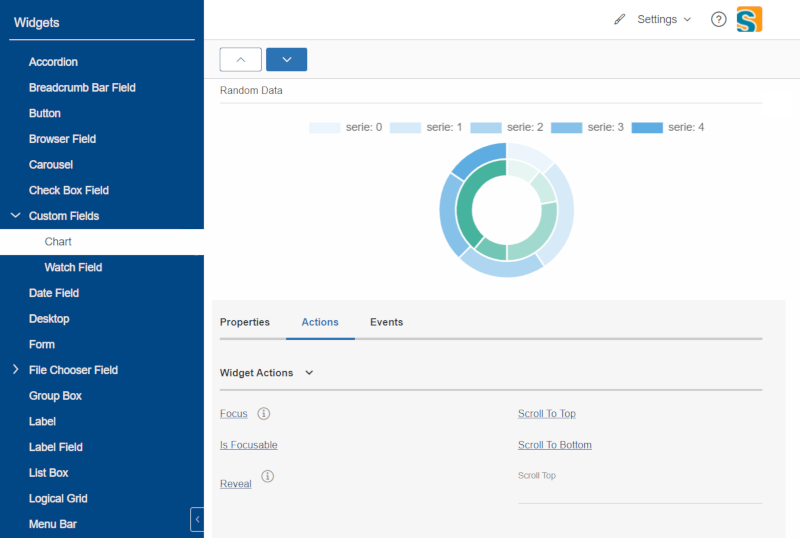
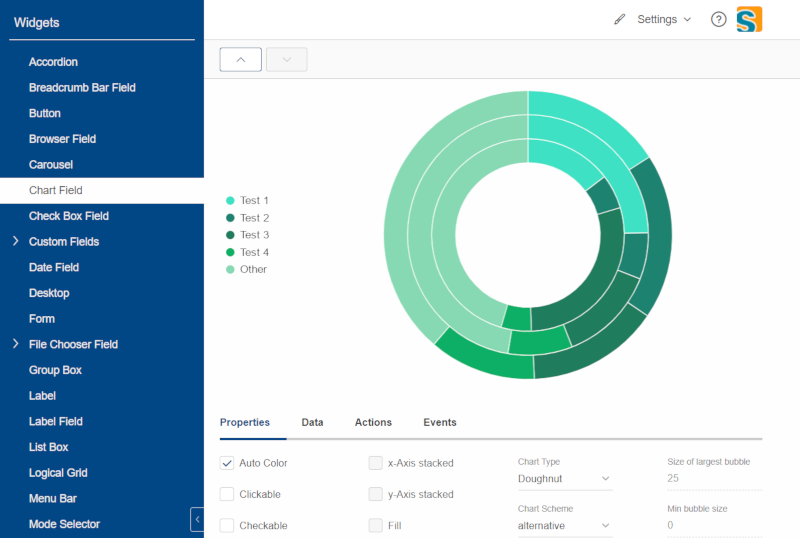
Updated Screenshots

diff --git a/README.md b/README.md
@@ -4,8 +4,24 @@
 * Start http://localhost:8080/
 
 
+## Screenshots für Scout Homepage Erstellen
+* Chrome verwenden
+* Outline-Tree mit D&D so einstellen, dass er genau 261px breit ist
+  (im DOM Inspector verifizieren)
+* Unnötige Nodes zuklappen
+* Chrome Window mit "Sizer" Tool auf 1280 x 960 resizen
+* Screenshot von Chrome Window machen (Alt + Print Screen)
+* In GIMP pasten. Ränder beschneiden. 1 Pixel Rahmen von Chrome
+  darf nicht Teil vom Bild sein.
+* Zielgrösse: 1278 x 859 Pixel
+* Scrollbars entfernen / übermalen
+* Outline-Selector Button oben links mit blau übermalen
+* Angeschnittene Texte in der Outline mit blau übermalen
+* Fertiges Bild kopieren / auf 800 x 538 skalieren
+* Als PNG speichern
+
+
 ## TODOs
-* CGU: Neue Screenshots für Charts erstellen
 * Finale Illustrationen -> Remo?
 * Build implementieren, package.json aufräumen
 * Internet Explorer ggf. Error abfangen / Edge prüfen (Babel, ES5 transpile)
@@ -17,6 +33,7 @@
 
 
 ## Erledigt
+* CGU: Neue Screenshots für Charts erstellen
 * Unbenutzte Ressourcen entfernen (nicht referenzierte Bilder)
 * BSH: 4 Icons im Footer aus Community Menu verwenden.
 * Favicons
